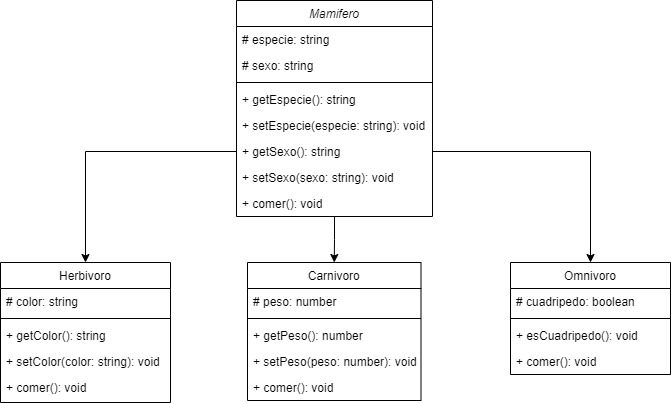
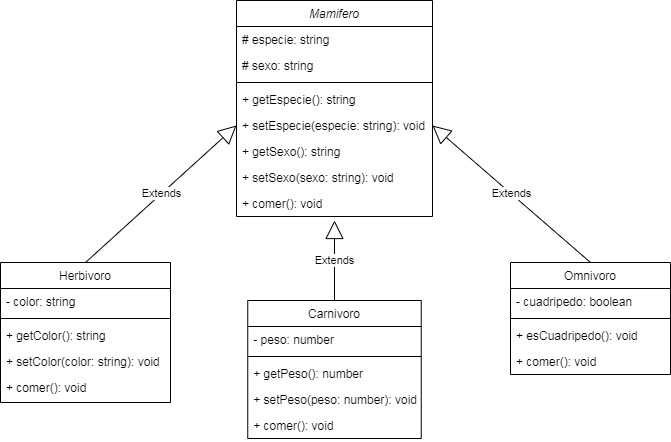
07/10/22

diff --git a/ejercicio05-10-mamifero/ominovoro.ts b/ejercicio05-10-mamifero/ominovoro.ts
@@ -1,7 +1,7 @@
 import { Mamifero } from "./mamifero";
 
 export class Omnivoro extends Mamifero {
-    protected cuadripedo: boolean;
+    private cuadripedo: boolean;
 
     constructor(especie: string, sexo: string, cuadripedo: boolean) {
         super(especie, sexo);
@@ -17,6 +17,6 @@ export class Omnivoro extends Mamifero {
     }
 
     public comer(): void {
-        return console.log(`El animal come plantas y carne`);
+        console.log(`El animal come plantas y carne`);
     }
 }

diff --git a/ejercicio05-10-mamifero/herbivoro.ts b/ejercicio05-10-mamifero/herbivoro.ts
@@ -1,7 +1,7 @@
 import { Mamifero } from "./mamifero";
 
 export class Herbivoro extends Mamifero {
-    protected color: string;
+    private color: string;
 
     constructor(especie: string, sexo: string, color: string) {
         super(especie, sexo);
@@ -17,6 +17,6 @@ export class Herbivoro extends Mamifero {
     }
 
     public comer(): void {
-        return console.log(`El animal come plantas`);
+        console.log(`El animal come plantas`);
     }
 }

diff --git a/ejercicio05-10-mamifero/carnivoro.ts b/ejercicio05-10-mamifero/carnivoro.ts
@@ -1,7 +1,7 @@
 import { Mamifero } from "./mamifero";
 
 export class Carnivoro extends Mamifero {
-    protected peso: number;
+    private peso: number;
 
     constructor(especie: string, sexo: string, peso: number) {
         super(especie, sexo);
@@ -17,6 +17,6 @@ export class Carnivoro extends Mamifero {
     }
 
     public comer(): void {
-        return console.log(`El animal come carne`);
+        console.log(`El animal come carne`);
     }
 }

diff --git a/ejercicio05-10-mamifero/mamifero.ts b/ejercicio05-10-mamifero/mamifero.ts
@@ -24,6 +24,6 @@ export class Mamifero {
     }
 
     public comer(): void {
-        return console.log(`El animal está comiendo`);
+        console.log(`El animal está comiendo`);
     }
 }
